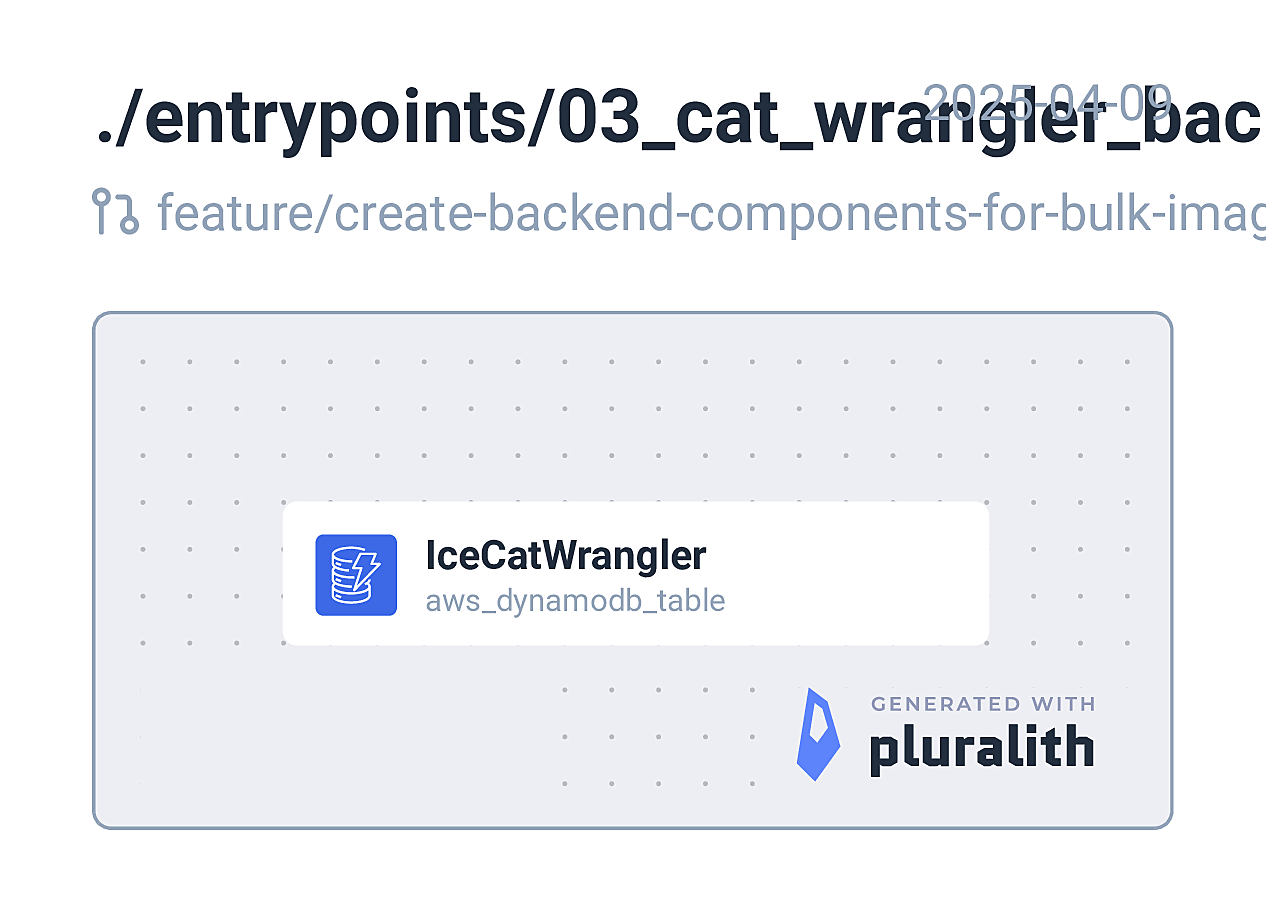
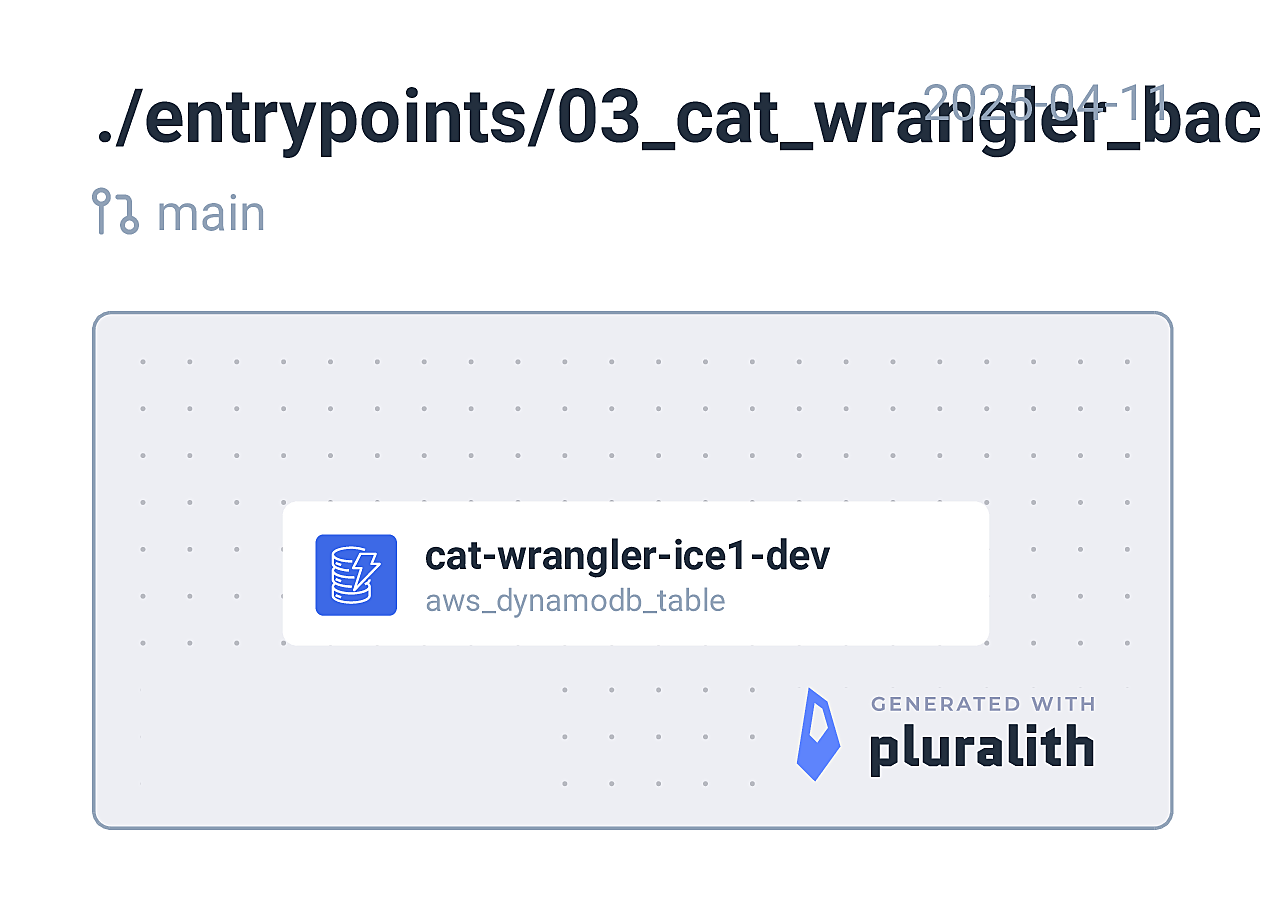
update terraform documentation

diff --git a/infra-terra/entrypoints/03_cat_wrangler_backend/README.md b/infra-terra/entrypoints/03_cat_wrangler_backend/README.md
@@ -24,12 +24,14 @@ No modules.
 | Name | Type |
 |------|------|
 | [aws_dynamodb_table.image_cat](https://registry.terraform.io/providers/hashicorp/aws/latest/docs/resources/dynamodb_table) | resource |
+| [aws_ssm_parameter.s3buckets](https://registry.terraform.io/providers/hashicorp/aws/latest/docs/resources/ssm_parameter) | resource |
 
 ## Inputs
 
 | Name | Description | Type | Default | Required |
 |------|-------------|------|---------|:--------:|
 | <a name="input_created_by"></a> [created\_by](#input\_created\_by) | Created by | `string` | `"terraform"` | no |
+| <a name="input_dynamo_db_name"></a> [dynamo\_db\_name](#input\_dynamo\_db\_name) | DynamoDB table name | `string` | n/a | yes |
 | <a name="input_env"></a> [env](#input\_env) | Deployment environment. e.g. dev, uat, prod | `string` | n/a | yes |
 | <a name="input_owner"></a> [owner](#input\_owner) | Owner of the project | `string` | `"DevOps"` | no |
 | <a name="input_project"></a> [project](#input\_project) | Project name | `string` | `"cat-wrangler"` | no |
